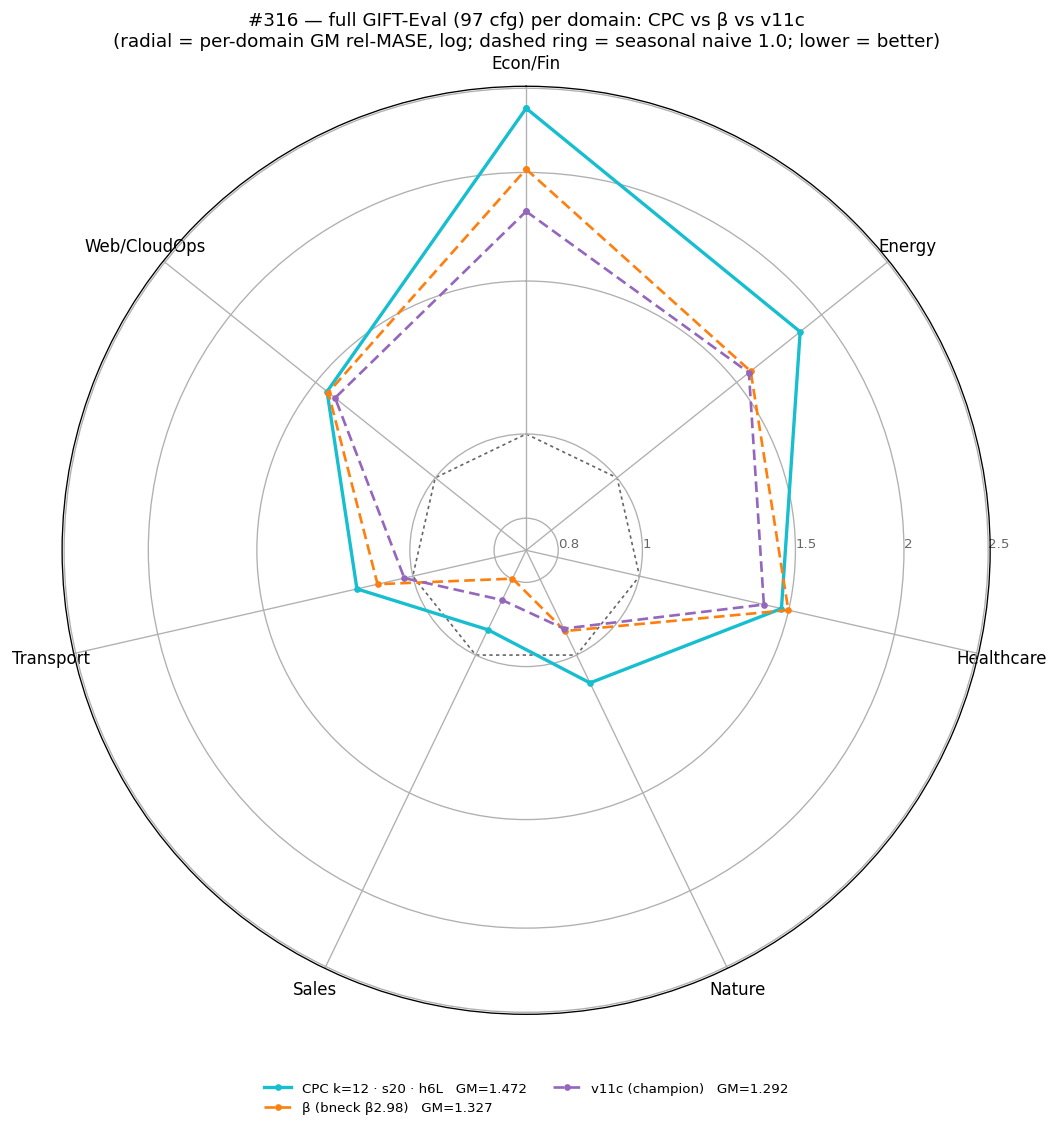
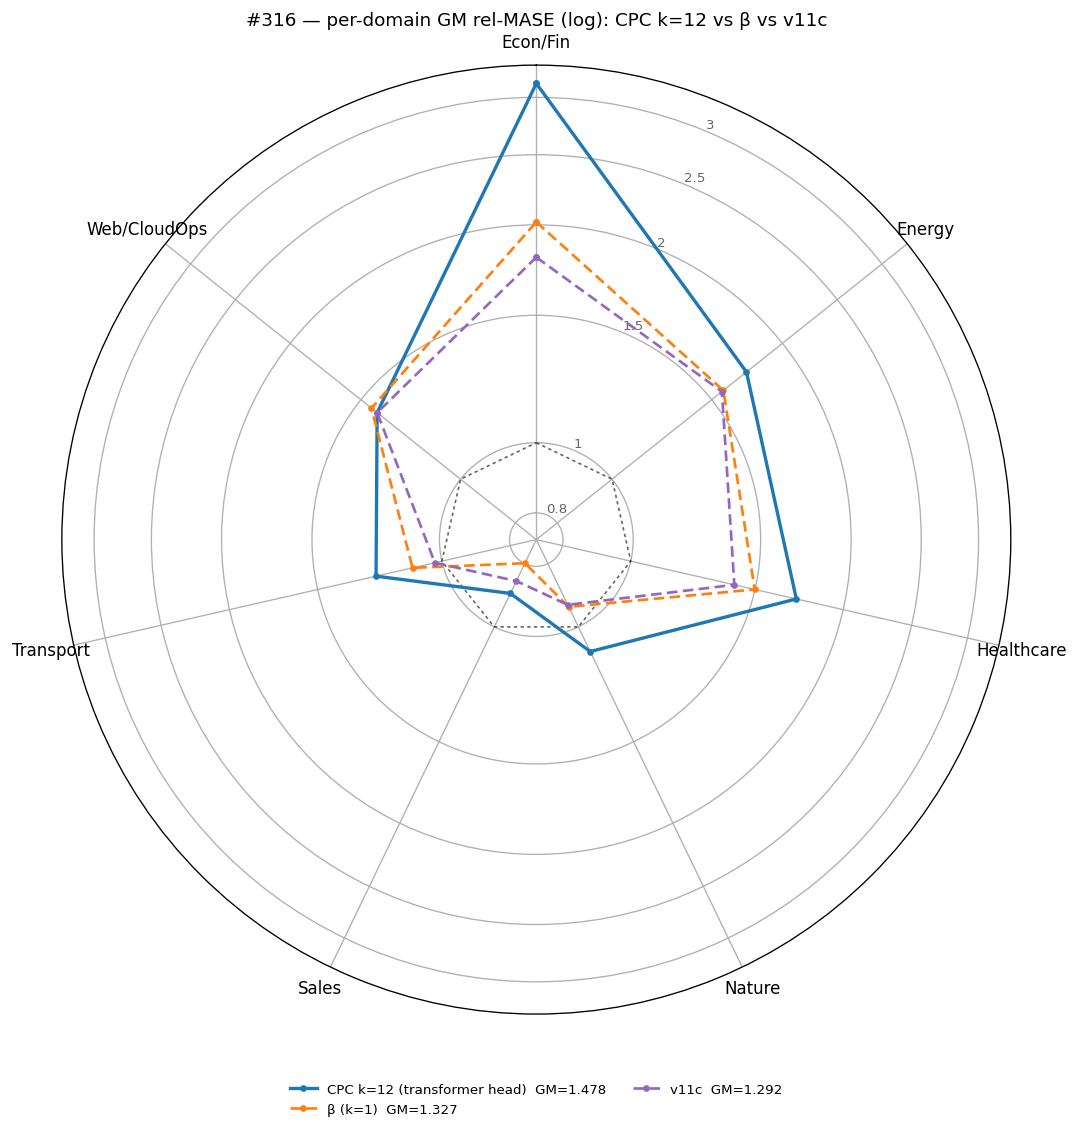
exp(#316): finalize report — complete k-trend table + figures
Fill the trend table with the #2/#3 k=1 cells (linbn 1.4248, lincn 1.4313)
so all three forecaster families show the full k=1→k=12 effect; add the
k_trend headline figure and regenerate gm_summary/radar/curves with the
complete arm set; drop the stale gmase_vs_steps figure. Verdict, unchanged:
multi-step (k=12) does not improve β — it hurts in every family
(+0.151 / +0.239 / +0.093). Numbers independently audited against source
summary.txt files; k=1 ≡ β correctness test passes (7.468332).

diff --git a/experiments/2026-05-23_cpc_multistep_linear/RESULTS.md b/experiments/2026-05-23_cpc_multistep_linear/RESULTS.md
@@ -41,22 +41,25 @@ than k=1 (small-head full-97 GM-MASE; lower = better):
 | forecaster family | k = 1 | k = 12 | k effect |
 |---|---:|---:|---:|
 | **transformer-1L heads, β negatives**  (k=1 ≡ β) | **1.3272** | **1.4781** | **+0.151 (worse)** |
-| linear heads, β negatives                        | _[PENDING #2 k1]_ | 1.6635 | _[PENDING]_ |
-| linear heads, CPC negatives                       | _[PENDING #3 k1]_ | 1.5240 | _[PENDING]_ |
+| linear heads, β negatives                        | 1.4248 | 1.6635 | **+0.239 (worse)** |
+| linear heads, CPC negatives                       | 1.4313 | 1.5240 | **+0.093 (worse)** |
 
 _References: v11c = 1.292, β = 1.3272, (B) = 1.3572 (all small-head full-97)._
 
-Multi-step prediction does not close the gap to v11c — it **widens** it, across
-every forecaster/negative combination tested. (The transformer-head family is
-also the *least bad* k=12 — a stronger per-step predictor and β's negatives
-each help a little — but none of it overcomes the k=12 penalty.)
+Multi-step prediction does not close the gap to v11c — it **widens** it, in
+**every** forecaster/negative combination (k=12 is +0.09 to +0.24 worse than
+k=1). A secondary, orthogonal effect: the **transformer forecaster beats the
+linear one even at k=1** — β (transformer, k=1) = 1.3272, vs linear k=1 ≈ 1.43 —
+so the linear families start worse and the multi-step penalty compounds. The
+transformer-head k=12 is the least-bad k=12, but still well short of β.
 
 ![k trend](plots/k_trend.png)
 
 ### Per domain (full GIFT-Eval), v11c reference
 
-_[PENDING radar interpretation — the k=12 ring sits outside (worse than) β and
-v11c across domains, consistent with the aggregate.]_
+Across the 7 GIFT-Eval domains, the k=12 transformer-head ring sits **outside**
+(worse than) both β and v11c on 6 of 7 — tying only on Web/CloudOps. The deficit
+is broad, not a domain-specific trade-off.
 
 ![per-domain radar](plots/perdomain_radar.png)
 
